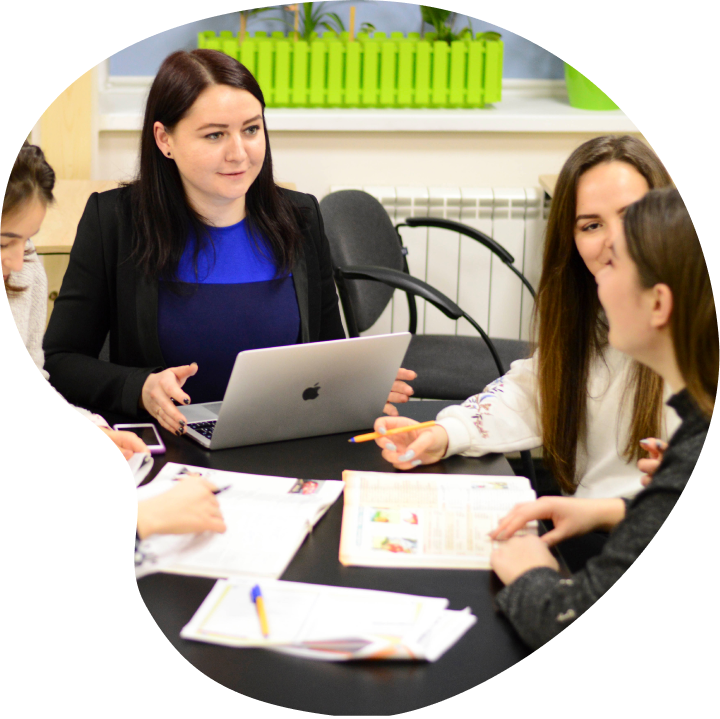
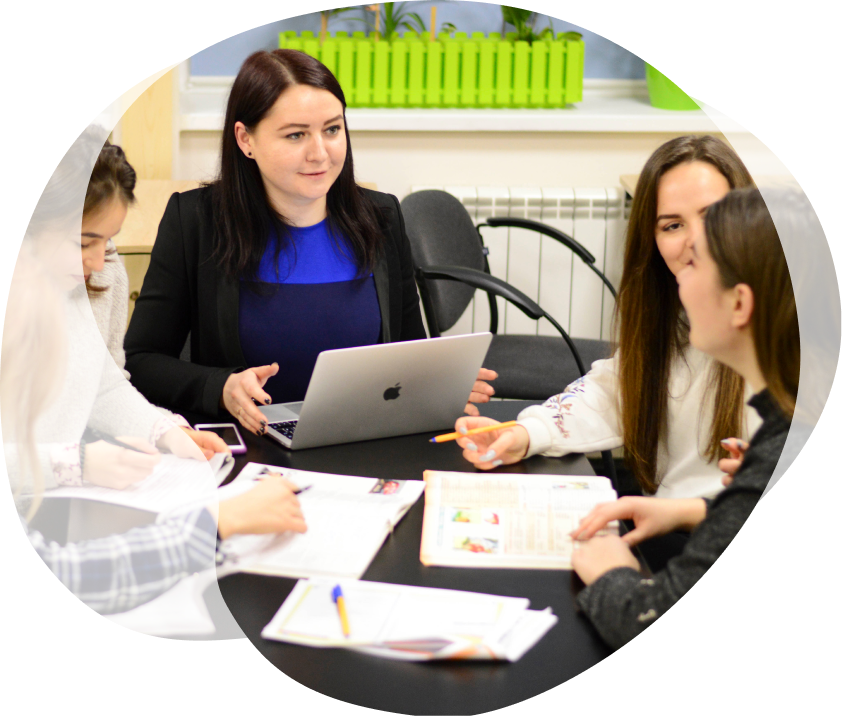
виполнил моб.секцию + картинки

diff --git a/src/partials/hero.html b/src/partials/hero.html
@@ -10,8 +10,14 @@
         </p>
     </div>
     <button class="button__lesson" type="button">I want a free lesson</button>
-    <div class="hero__image-wrapper">
-    </div>
-
+    <picture>
+        <source media="(min-width:1366px)" type="image/webp" srcset="./images/hero/hero-desktop.webp 1x, ./images/hero/hero-desktop@1.5x.webp 1.5x, ./images/hero/hero-desktop@2x.webp 2x">
+        <source media="(min-width:768px)" type="image/webp" srcset="./images/hero/hero-tablet.webp 1x, ./images/hero/hero-tablet@1.5x.webp 1.5x, ./images/hero/hero-tablet@2x.webp 2x">
+        <source media="(max-width:767px)" type="image/webp" srcset="./images/hero/hero-mob.webp 1x, ./images/hero/hero-mob@1.5x.webp 1.5x, ./images/hero/hero-mob@2x.webp 2x">
+        <source media="(min-width:1366px)" srcset="./images/hero/hero-desktop.png 1x, ./images/hero/hero-desktop@1.5x.png 1.5x, ./images/hero/hero-desktop@2x.png 2x">
+        <source media="(min-width:768px)" srcset="./images/hero/hero-tablet.png 1x, ./images/hero/hero-tablet@1.5x.png 1.5x, ./images/hero/hero-tablet@2x.png 2x">
+        <source media="(max-width:767px)" srcset="./images/hero/hero-mob.png 1x, ./images/hero/hero-mob@1.5x.png 1.5x, ./images/hero/hero-mob@2x.png 2x">
+        <img class="hero-image" src="#" alt="hero">
+    </picture>
     </div>
 </section>

diff --git a/src/sass/layout/_hero.scss b/src/sass/layout/_hero.scss
@@ -1,6 +1,20 @@
 .hero {
   padding-top: 25px;
   padding-bottom: 30px;
+  background-color: #e5e5e5e5;
+  background-image: url(../images/hero/hero-shadow-line-mobile.png);
+  background-repeat: no-repeat;
+  background-size: cover;
+  background-position-x: 50%;
+  background-position-y: bottom;
+  margin: 0 auto;
+}
+
+.hero-image {
+  margin-top: 30px;
+  margin-bottom: 48px;
+  margin-left: auto;
+  margin-right: auto;
 }
 
 .hero__title {
@@ -9,14 +23,6 @@
   line-height: 1.3;
   letter-spacing: 0.03em;
   color: $main-text-color;
-}
-
-.hero__image {
-  width: 100%;
-}
-
-.hero__image-shadow {
-  width: 100%;
 }
 
 .hero__title-wrapper {
@@ -58,16 +64,8 @@
   letter-spacing: 0.08em;
   color: $accent-color;
 }
-
-.hero__main-wrapper {
-  max-width: 280px;
-  margin-left: auto;
-  margin-right: auto;
-  margin-top: 30px;
-  margin-bottom: 48px;
-  background-image: url(../images/hero/hero-mobile.png), url(../images/hero/hero-shadow-mobile.png);
-  background-repeat: no-repeat;
-  background-position: center;
-  background-position-x: 50%;
-  background-position-y: 50%;
+@media scren and (min-width: 768px) {
+  .hero {
+    display: flex;
+  }
 }
